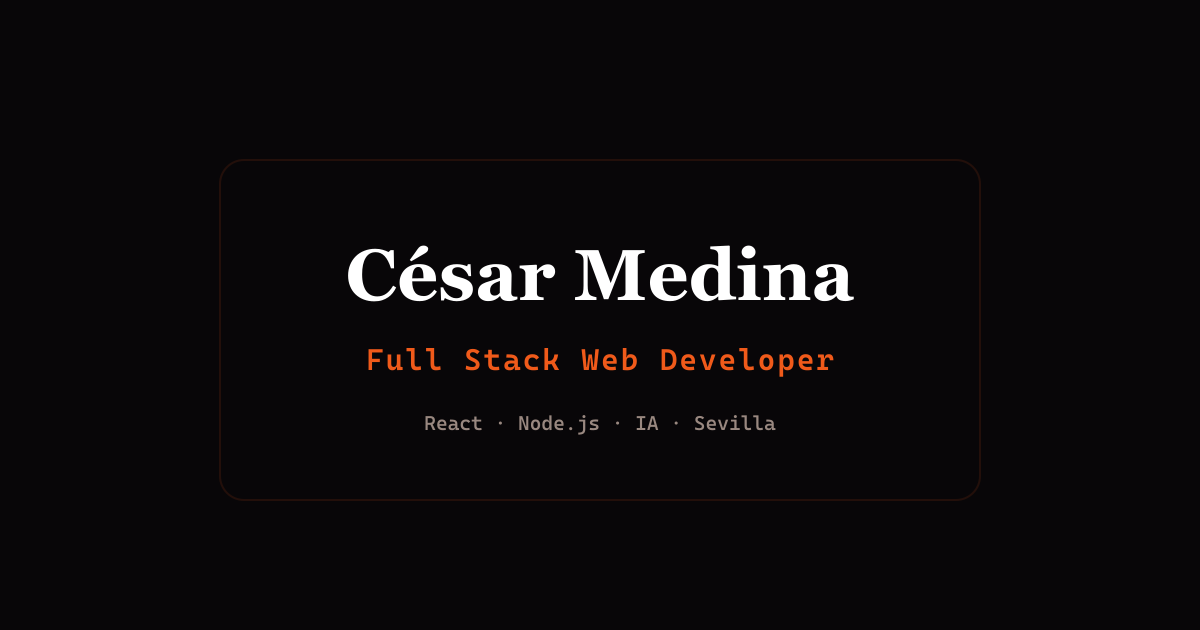
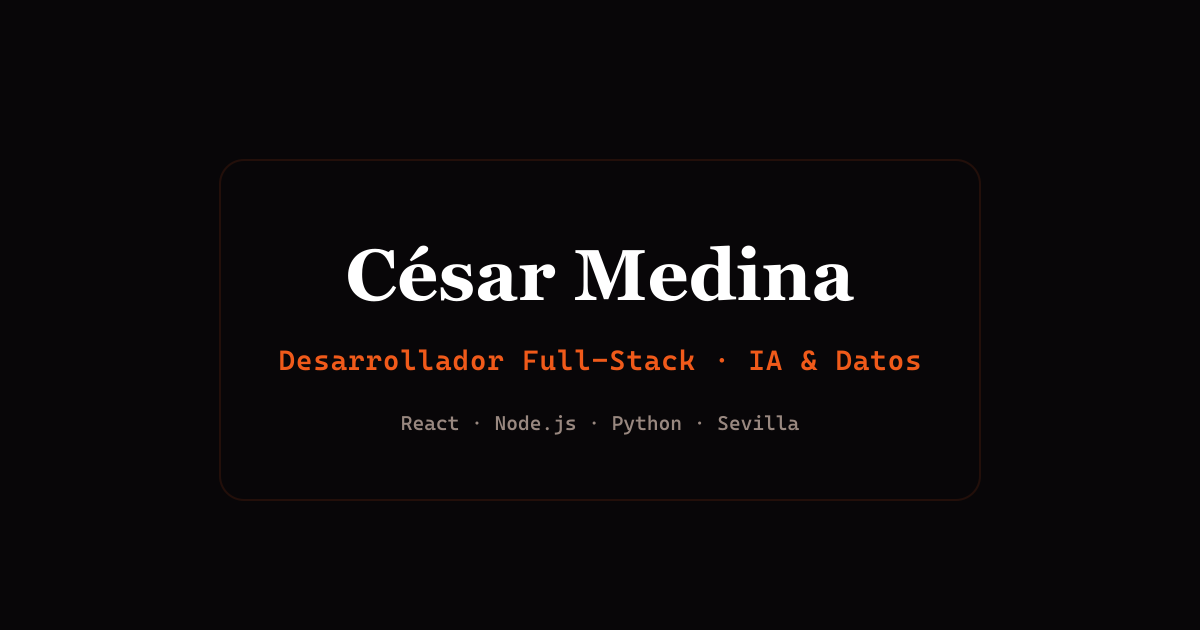
chore(seo): add canonical, sitemap and structured data

Changed region(s): [[0.2158, 0.5429, 0.7708, 0.6032], [0.3392, 0.6635, 0.6783, 0.6937]]

diff --git a/index.html b/index.html
@@ -5,12 +5,46 @@
     <link rel="icon" type="image/svg+xml" href="/favicon.svg?v=2" />
     <meta name="viewport" content="width=device-width, initial-scale=1.0" />
     <meta name="theme-color" content="#080608" />
-    <meta name="description" content="Portfolio de César Medina, desarrollador web full stack especializado en React, Node.js e IA. Sevilla." />
-    <meta property="og:title" content="César Medina — Full Stack Developer" />
-    <meta property="og:description" content="Portfolio de César Medina, desarrollador web full stack especializado en React, Node.js e IA." />
-    <meta property="og:image" content="/og-image.png" />
-    <meta name="twitter:card" content="summary_large_image" />
     <title>César Medina</title>
+    <meta name="description" content="Portfolio de César Medina, desarrollador full-stack especializado en React, Node.js, Python e IA. Sevilla." />
+    <link rel="canonical" href="https://portfolio-phi-livid-75.vercel.app/" />
+
+    <meta property="og:type" content="website" />
+    <meta property="og:site_name" content="César Medina" />
+    <meta property="og:locale" content="es_ES" />
+    <meta property="og:url" content="https://portfolio-phi-livid-75.vercel.app/" />
+    <meta property="og:title" content="César Medina — Desarrollador Full-Stack · IA & Datos" />
+    <meta property="og:description" content="Portfolio de César Medina, desarrollador full-stack especializado en React, Node.js, Python e IA. Sevilla." />
+    <meta property="og:image" content="https://portfolio-phi-livid-75.vercel.app/og-image.png" />
+    <meta property="og:image:type" content="image/png" />
+    <meta property="og:image:width" content="1200" />
+    <meta property="og:image:height" content="630" />
+    <meta property="og:image:alt" content="César Medina, desarrollador full-stack de IA y datos" />
+
+    <meta name="twitter:card" content="summary_large_image" />
+    <meta name="twitter:title" content="César Medina — Desarrollador Full-Stack · IA & Datos" />
+    <meta name="twitter:description" content="Portfolio de César Medina, desarrollador full-stack especializado en React, Node.js, Python e IA. Sevilla." />
+    <meta name="twitter:image" content="https://portfolio-phi-livid-75.vercel.app/og-image.png" />
+
+    <script type="application/ld+json">
+      {
+        "@context": "https://schema.org",
+        "@type": "Person",
+        "name": "César Medina",
+        "jobTitle": "Desarrollador Full-Stack · IA & Datos",
+        "url": "https://portfolio-phi-livid-75.vercel.app/",
+        "address": { "@type": "PostalAddress", "addressLocality": "Sevilla", "addressCountry": "ES" },
+        "alumniOf": [
+          { "@type": "EducationalOrganization", "name": "CEU FP Sevilla" },
+          { "@type": "EducationalOrganization", "name": "CEI Sevilla" }
+        ],
+        "knowsAbout": ["React", "TypeScript", "Node.js", "Python", "Inteligencia artificial", "Big Data"],
+        "sameAs": [
+          "https://github.com/CesarMed06",
+          "https://www.linkedin.com/in/c%C3%A9sar-medina-gago"
+        ]
+      }
+    </script>
   </head>
   <body>
     <div id="root"></div>

diff --git a/scripts/generate-og.js b/scripts/generate-og.js
@@ -7,8 +7,8 @@ const svg = `<svg xmlns="http://www.w3.org/2000/svg" width="${W}" height="${H}" 
   <rect width="${W}" height="${H}" fill="#080608"/>
   <rect x="220" y="160" width="760" height="340" rx="24" fill="none" stroke="rgba(240,90,26,0.12)" stroke-width="2"/>
   <text x="600" y="300" text-anchor="middle" fill="#ffffff" font-family="Georgia, serif" font-weight="700" font-size="72">César Medina</text>
-  <text x="600" y="370" text-anchor="middle" fill="#f05a1a" font-family="Helvetica Neue, sans-serif" font-weight="600" font-size="30" letter-spacing="2">Full Stack Web Developer</text>
-  <text x="600" y="430" text-anchor="middle" fill="#998880" font-family="Helvetica Neue, sans-serif" font-weight="500" font-size="20">React · Node.js · IA · Sevilla</text>
+  <text x="600" y="370" text-anchor="middle" fill="#f05a1a" font-family="Helvetica Neue, sans-serif" font-weight="600" font-size="28" letter-spacing="1">Desarrollador Full-Stack · IA &amp; Datos</text>
+  <text x="600" y="430" text-anchor="middle" fill="#998880" font-family="Helvetica Neue, sans-serif" font-weight="500" font-size="20">React · Node.js · Python · Sevilla</text>
 </svg>`
 
 sharp(Buffer.from(svg))

diff --git a/src/pages/Projects.jsx b/src/pages/Projects.jsx
@@ -8,11 +8,13 @@ const content = {
   es: {
     eyebrow: 'Mis proyectos', title: 'Proyectos',
     subtitle: 'Siete proyectos publicados, con enlace al código y a la demo cuando existe. Filtra por tipo para ver lo que te interesa.',
+    seo: 'Siete proyectos de desarrollo full-stack, IA y mods de Minecraft, con código en GitHub y demo en vivo cuando existe.',
     github: 'GitHub', all: 'Todos', filtersLabel: 'Filtrar proyectos',
   },
   en: {
     eyebrow: 'My projects', title: 'Projects',
     subtitle: 'Seven shipped projects, with links to the code and to a live demo where there is one. Filter by type to see what interests you.',
+    seo: 'Seven full-stack, AI and Minecraft mod projects, with source code on GitHub and a live demo where there is one.',
     github: 'GitHub', all: 'All', filtersLabel: 'Filter projects',
   },
 }
@@ -36,6 +38,7 @@ function Projects() {
   return (
     <section className="projects" ref={ref}>
       <title>{tx.title} | César Medina</title>
+      <meta name="description" content={tx.seo} />
       <div className="page-header">
         <p className="page-eyebrow">{tx.eyebrow}</p>
         <h1 className="page-title">{tx.title}</h1>

diff --git a/src/pages/Technologies.jsx b/src/pages/Technologies.jsx
@@ -7,11 +7,13 @@ const content = {
   es: {
     eyebrow: 'Mi stack', title: 'Tecnologías',
     intro: 'Herramientas y lenguajes con los que trabajo y aprendo cada día.',
+    seo: 'Stack de César Medina: React, TypeScript, Node.js, Python, MongoDB, Java y las herramientas de IA que usa a diario.',
     levels: { d: 'Diario', f: 'Habitual', l: 'Aprendiendo' },
   },
   en: {
     eyebrow: 'My stack', title: 'Technologies',
     intro: 'Tools and languages I work with and learn every day.',
+    seo: 'César Medina stack: React, TypeScript, Node.js, Python, MongoDB, Java and the AI tooling he uses daily.',
     levels: { d: 'Daily', f: 'Regular', l: 'Learning' },
   },
 }
@@ -69,6 +71,7 @@ function Technologies() {
   return (
     <section className="technologies" ref={ref}>
       <title>{tx.title} | César Medina</title>
+      <meta name="description" content={tx.seo} />
       <div className="technologies__header">
         <p className="technologies__eyebrow">{tx.eyebrow}</p>
         <h1 className="technologies__title">{tx.title}</h1>

diff --git a/src/pages/Career.jsx b/src/pages/Career.jsx
@@ -8,6 +8,7 @@ const content = {
     eyebrow: 'Mi recorrido',
     title: 'Trayectoria',
     intro: 'Formación y experiencia real relacionadas con mi perfil técnico dentro del ámbito informático.',
+    seo: 'Trayectoria de César Medina: máster en IA y Big Data en CEU FP Sevilla, grado en DAW y prácticas de desarrollo web.',
     badgeStudy: 'Formación',
     badgeWork: 'Experiencia',
   },
@@ -15,6 +16,7 @@ const content = {
     eyebrow: 'My journey',
     title: 'Career',
     intro: 'Relevant education and work experience in the IT field.',
+    seo: 'César Medina background: AI and Big Data master\'s at CEU FP Seville, web development degree and developer internships.',
     badgeStudy: 'Education',
     badgeWork: 'Experience',
   },
@@ -82,6 +84,7 @@ function Career() {
   return (
     <section className="career" ref={ref}>
       <title>{tx.title} | César Medina</title>
+      <meta name="description" content={tx.seo} />
 
       <div className="career__header">
         <p className="career__eyebrow">{tx.eyebrow}</p>
